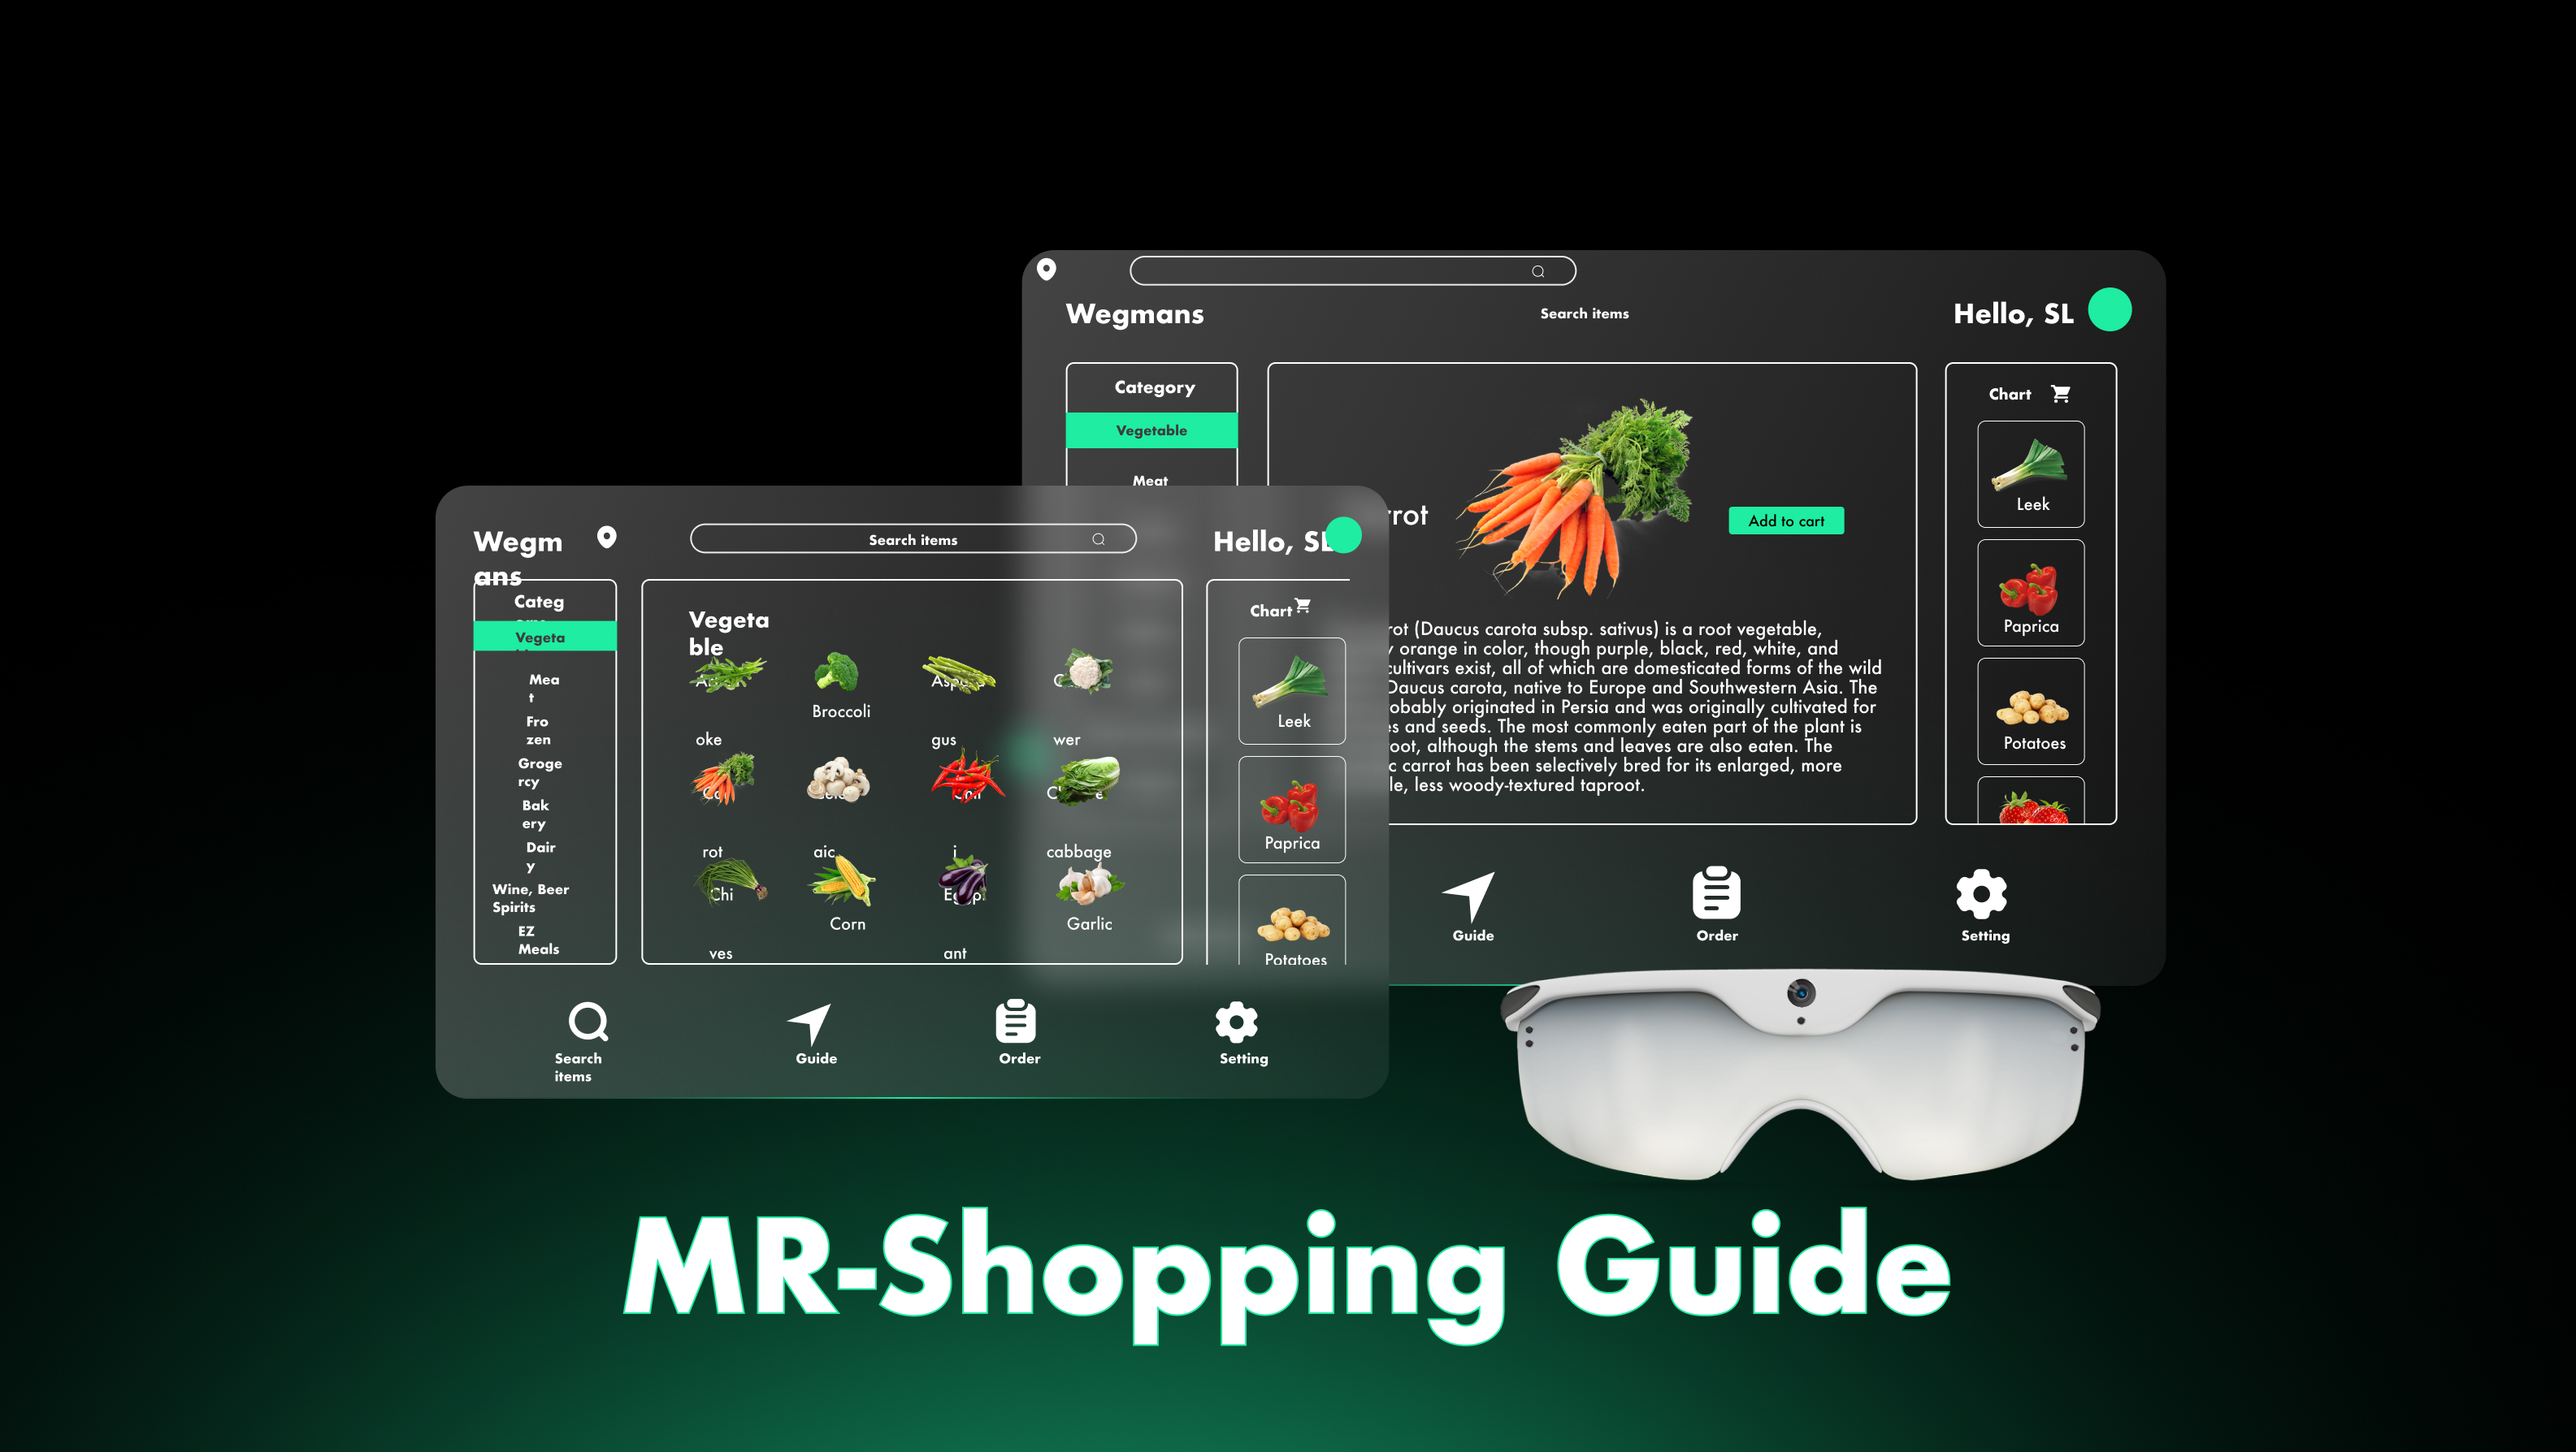
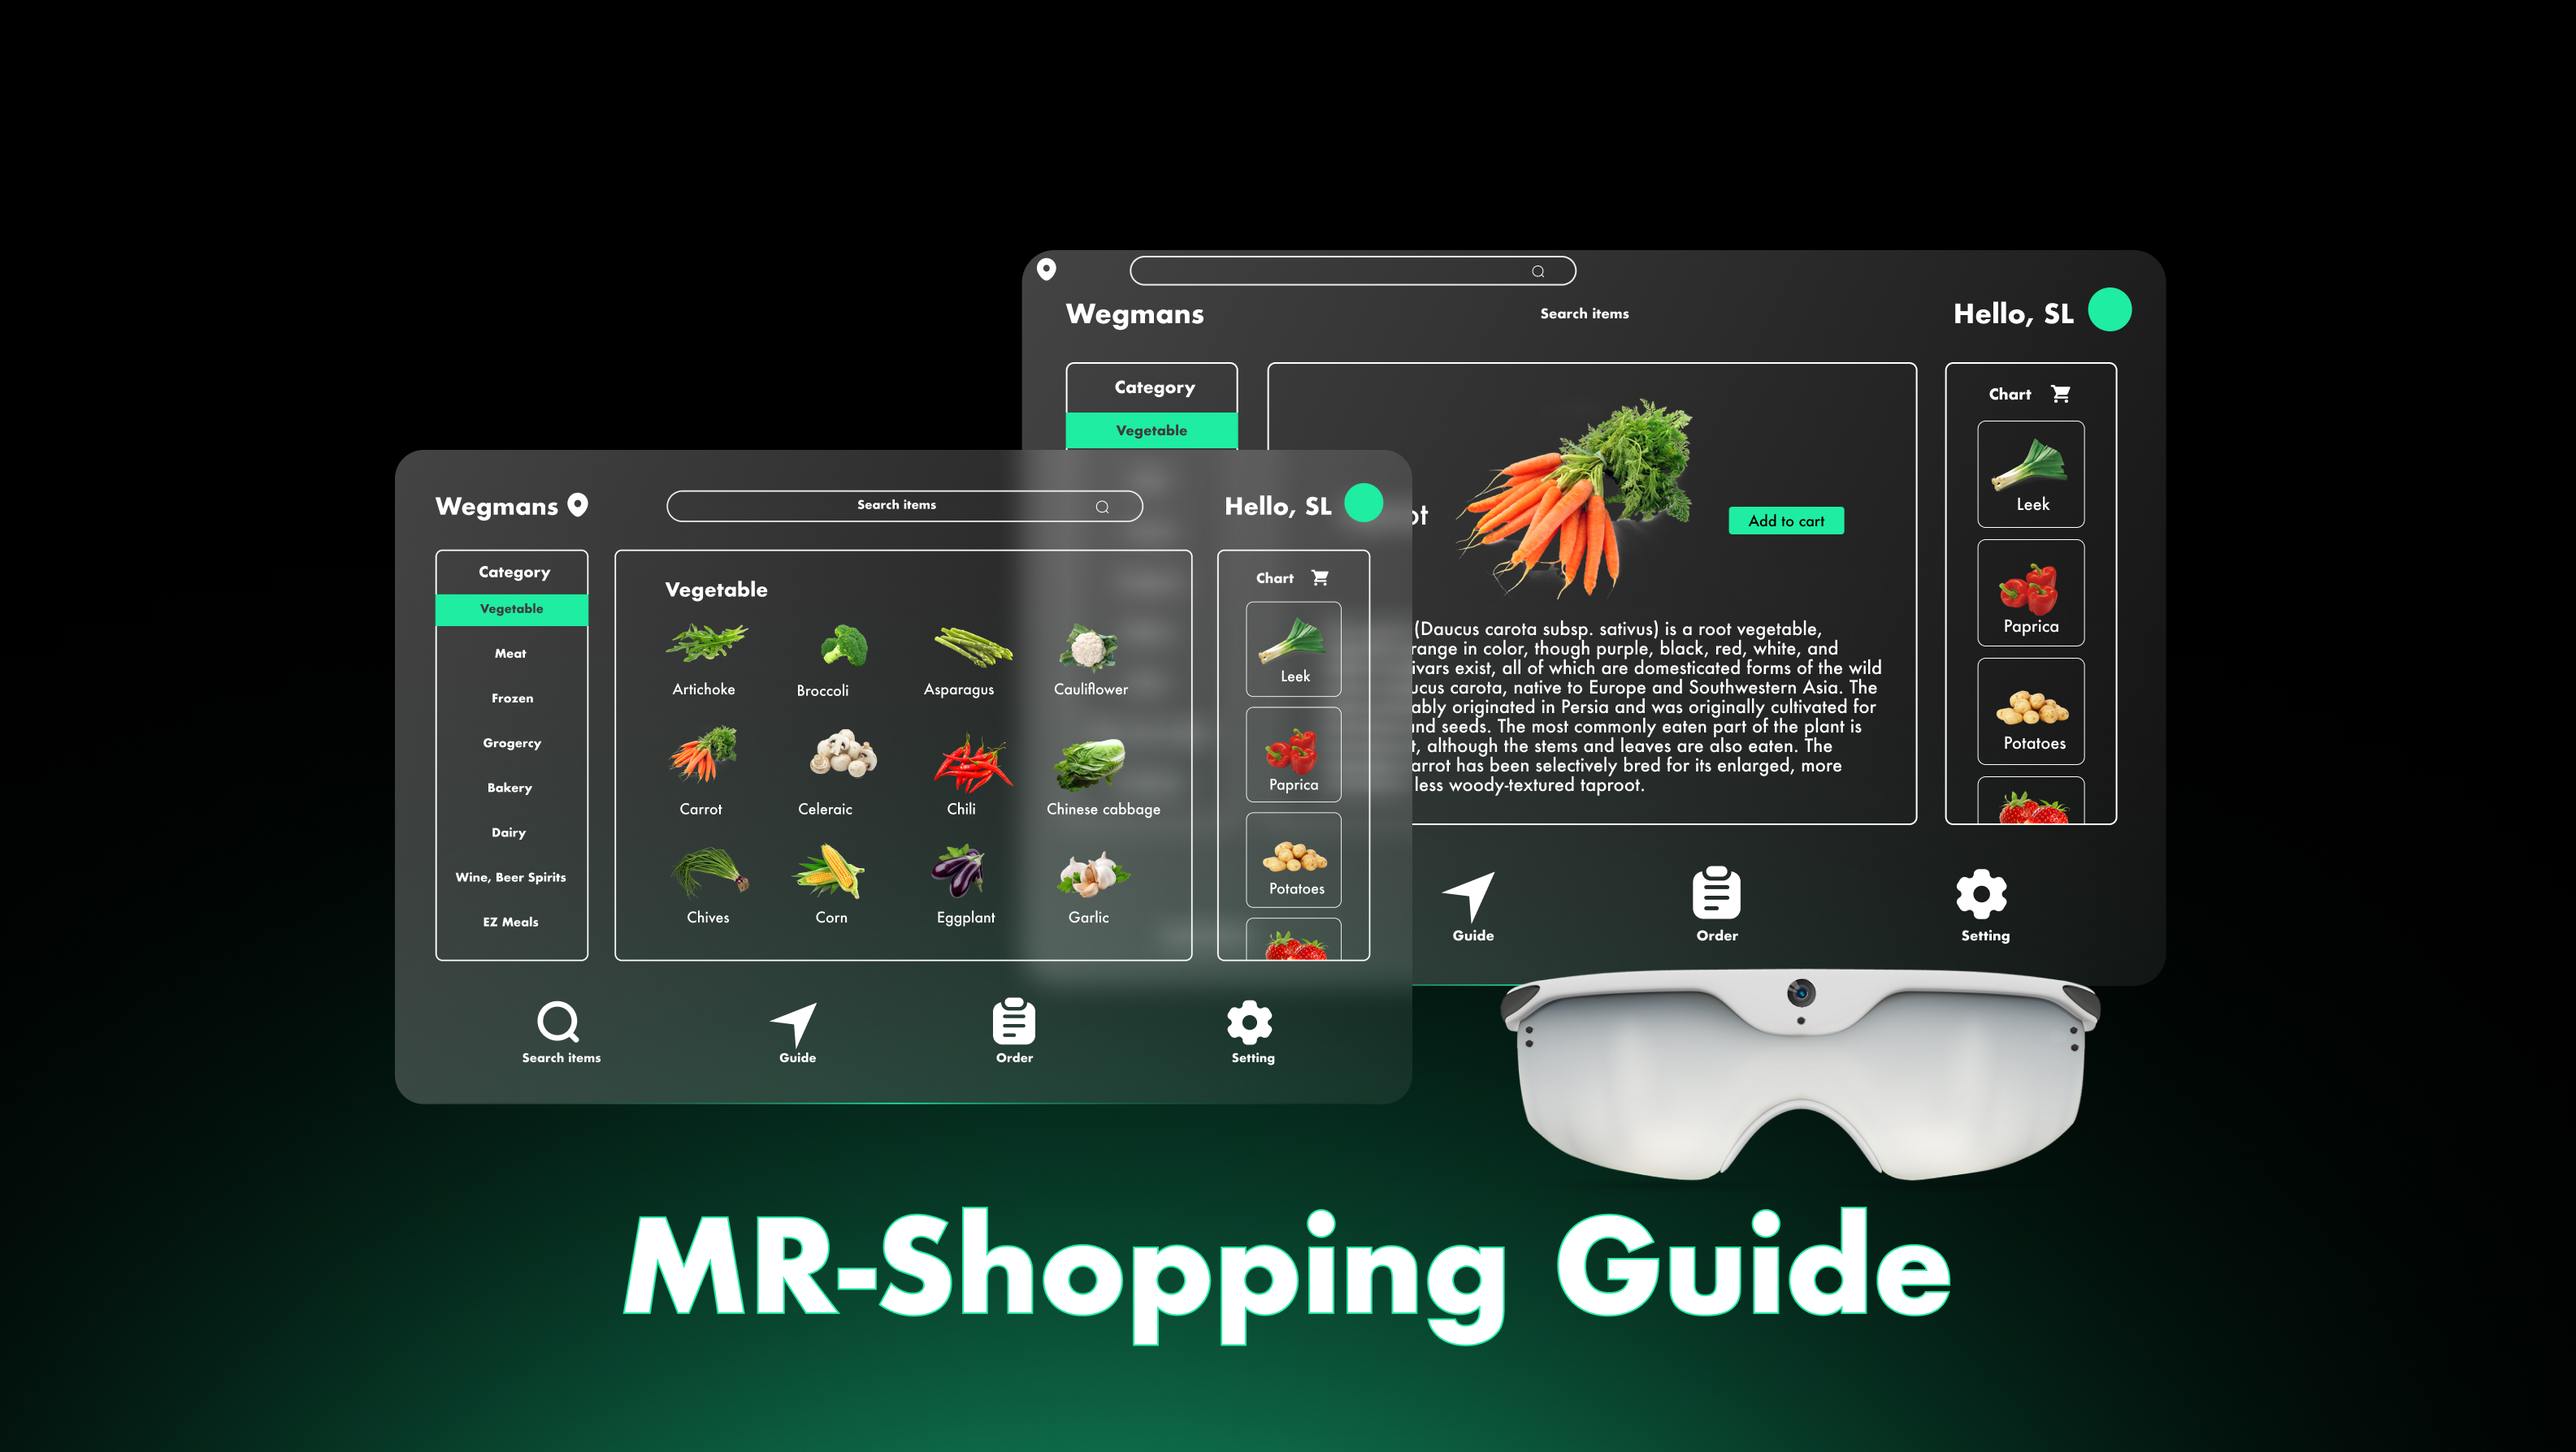
UI cate

Changed region(s): [[0.1562, 0.3076, 0.5621, 0.769], [0.3123, 0.6767, 0.3435, 0.7075]]

diff --git a/content/_design/AR_Shopping/index.md b/content/_design/AR_Shopping/index.md
@@ -1,12 +1,12 @@
 ---
 title: "MR Shopping UI"
-category: mr
+category: ux
 type: "Mixed Reality"
 summary: "VR/MR UI design"
 cover: "Cover4.jpg"
 year: 2023  
 tools: "Figma, Cinema 4D, After Effects"
-order: 1
+order: 0
 ---
 
 
